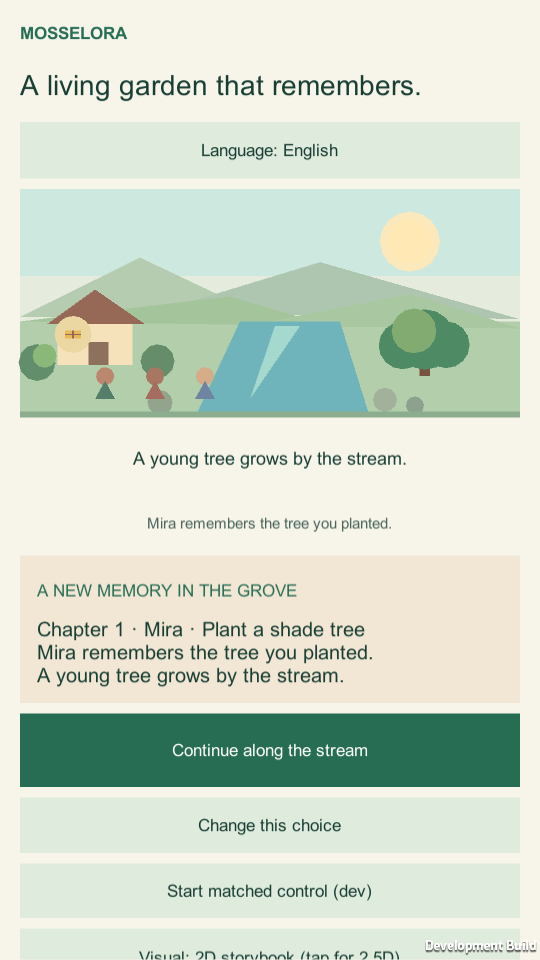
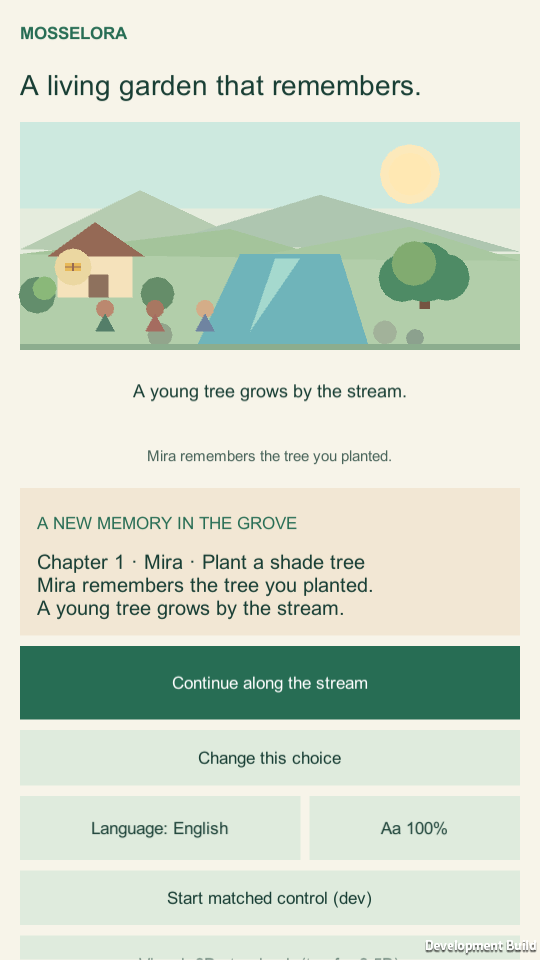
feat(evergrove): consequence-first memory screen and landmark tap message (EG-003)
Post-choice screen now leads with illustration, one consequence line,
the memory card, then Continue/Change, with a language and text-size row
placed after the primary actions. Puzzle screen order is unchanged.

Protected landmark tiles stay tappable and show the existing landmark
message in the status line without consuming a move, undo entry, or save.

QA tour gains step 13-anchored-tap, which asserts board and undo state
are unchanged. Screenshots regenerated at 540x960 and 375x667 @150%.

diff --git a/games/evergrove/Assets/Scripts/Unity/EvergroveApp.cs b/games/evergrove/Assets/Scripts/Unity/EvergroveApp.cs
@@ -459,18 +459,23 @@ namespace Evergrove.UnityClient
             // Keep the first playable board in the first visible viewport,
             // rather than putting language/settings and a giant hero above it.
             bool firstPuzzle = world.Round == 0 && !world.Solved && !showingMemory;
+            // The post-choice screen leads with the changed world and the new
+            // memory; its settings move below the primary actions.
+            bool memoryScreen = living && showingMemory && world.Choices.Length > 0;
+            // An open language picker keeps its own toggle at the top so it can close.
+            bool settingsAtTop = languagePicker || (!firstPuzzle && !memoryScreen);
+            bool multiLanguage = LocaleRuntime.SelectableLanguages.Count > 1;
             Text wordmark = Label(content, "Mosselora wordmark", GameLocalization.Text("title"),
                 15, 26, Leaf);
             wordmark.fontStyle = FontStyle.Bold;
             Label(content, "Title", GameLocalization.Text("subtitle"),
                 firstPuzzle ? 16 : 24, firstPuzzle ? 28 : 44, Ink);
-            if (LocaleRuntime.SelectableLanguages.Count > 1 &&
-                (!firstPuzzle || languagePicker))
+            if (multiLanguage && settingsAtTop)
                 Button(content, "Language settings",
                     GameLocalization.Text("language") + ": " +
                     GameLocalization.NativeName(GameLocalization.Current),
                     () => { languagePicker = !languagePicker; Rebuild(true); }, 48);
-            if (!firstPuzzle || languagePicker)
+            if (settingsAtTop)
                 TextSizeButton(content);
             if (languagePicker)
             {
@@ -560,7 +565,7 @@ namespace Evergrove.UnityClient
                 Label(content, "Puzzle condition", GameLocalization.Text("puzzle_desc"),
                     14, 44, Moss, TextAnchor.MiddleCenter);
 
-            if (showingMemory && world.Choices.Length > 0 && living)
+            if (memoryScreen)
             {
                 var moment = Card(content, "A remembered moment", Sand);
                 Label(moment.transform, "Moment title", GameLocalization.Text("memory_title"), 15, 31, Leaf);
@@ -577,6 +582,7 @@ namespace Evergrove.UnityClient
                     showingMemory = false;
                     Rebuild(false);
                 }, 47);
+                SettingsRow(multiLanguage);
             }
             else if (world.Completed)
             {
@@ -847,7 +853,8 @@ namespace Evergrove.UnityClient
                     index, puzzle.Size);
                 var tile = tileNode.AddComponent<Button>();
                 tile.targetGraphic = image;
-                tile.interactable = !world.Solved && !puzzle.IsAnchored(index);
+                // Protected tiles stay tappable: a tap explains them without a move.
+                tile.interactable = !world.Solved;
                 var colors = tile.colors;
                 colors.highlightedColor = Hex("#BFE0DC");
                 colors.pressedColor = Hex("#A3D2CC");
@@ -986,6 +993,19 @@ namespace Evergrove.UnityClient
             }
             Label(content, "How to play", GameLocalization.Text("how"),
                 13, 56, Moss, TextAnchor.MiddleCenter);
+        }
+
+        // Compact settings below the primary actions of the post-choice screen.
+        // Same controls and behavior as the top-of-screen settings elsewhere.
+        private void SettingsRow(bool offerLanguage)
+        {
+            GameObject row = Row(content, "Settings row");
+            if (offerLanguage)
+                Button(row.transform, "Language settings",
+                    GameLocalization.Text("language") + ": " +
+                    GameLocalization.NativeName(GameLocalization.Current),
+                    () => { languagePicker = true; Rebuild(true); }, 48);
+            TextSizeButton(row.transform);
         }
 
         // Language-neutral label: "Aa" plus the current size. Cycles 100/125/150%.
@@ -1174,7 +1194,7 @@ namespace Evergrove.UnityClient
                 tileBackgrounds[i].color = MosseloraTheme.TileFill(world.Solved,
                     insight.Flowing[i], puzzle.IsAnchored(i), world.HintStep,
                     world.HintTile, i, puzzle.Size);
-                visibleTiles[i].interactable = !world.Solved && !puzzle.IsAnchored(i);
+                visibleTiles[i].interactable = !world.Solved;
                 tileArtwork[i].Configure(puzzle.Kinds[i], angles[i],
                     insight.Flowing[i], world.Solved);
                 if (visibleLeaks != null && visibleLeaks[i] != null)
@@ -1231,6 +1251,14 @@ namespace Evergrove.UnityClient
 
         private void TapTile(int index)
         {
+            if (!world.Solved && world.CurrentPuzzle.IsAnchored(index))
+            {
+                // Explains the landmark in the status line only: no move, no undo
+                // entry, no save. The next real action redraws the progress text.
+                string landmark = LocalizedVillage.EnvironmentalRule(world);
+                if (feedbackText != null && landmark.Length > 0) feedbackText.text = landmark;
+                return;
+            }
             bool before = world.Solved;
             if (!world.Rotate(index)) return;
             if (localPlaytest != null) localPlaytest.Rotate(Time.unscaledTime);

diff --git a/games/evergrove/Assets/Scripts/Unity/DevQaTour.cs b/games/evergrove/Assets/Scripts/Unity/DevQaTour.cs
@@ -2,6 +2,7 @@
 using System;
 using System.Collections;
 using System.IO;
+using System.Linq;
 using Evergrove.Core;
 using UnityEngine;
 using UnityEngine.UI;
@@ -176,6 +177,24 @@ namespace Evergrove.UnityClient
             yield return new WaitForEndOfFrame();
             SavePng("12-matched-chapter2.png");
 
+            // Step 13: tap a protected landmark on that board. It must explain
+            // itself in the status line without spending a move or undo entry.
+            Puzzle board = app.QaWorld.CurrentPuzzle;
+            if (board.AnchoredTile >= 0)
+            {
+                int[] rotationsBefore = app.QaWorld.Rotations;
+                bool undoBefore = app.QaWorld.CanUndo;
+                Tap(board.AnchoredTile, board.Size);
+                for (int f = 0; f < 4; f++) yield return null;
+                if (!Enumerable.SequenceEqual(rotationsBefore, app.QaWorld.Rotations) ||
+                    undoBefore != app.QaWorld.CanUndo)
+                    throw new InvalidOperationException("Protected tap changed the board or undo state");
+                ScrollTo("Water feedback");
+                for (int f = 0; f < 4; f++) yield return null;
+                yield return new WaitForEndOfFrame();
+                SavePng("13-anchored-tap.png");
+            }
+
             Debug.Log("MOSSELORA_QA_TOUR_DONE " + saved);
             Application.Quit();
         }
@@ -207,7 +226,10 @@ namespace Evergrove.UnityClient
         private static void Tap(int index, int size)
         {
             string prefix = "Row " + (index / size + 1) + " column " + (index % size + 1) + " ";
-            FindButton(n => n.StartsWith(prefix, StringComparison.Ordinal), prefix).onClick.Invoke();
+            Button tile = FindButton(n => n.StartsWith(prefix, StringComparison.Ordinal), prefix);
+            // Same gate a real pointer press uses: disabled tiles never fire.
+            if (!tile.interactable) throw new InvalidOperationException("Tile not tappable: " + prefix);
+            tile.onClick.Invoke();
         }
 
         private void SolveTile(Puzzle puzzle, int index)

diff --git a/games/evergrove/docs/specs/02-FEATURE-BACKLOG.md b/games/evergrove/docs/specs/02-FEATURE-BACKLOG.md
@@ -76,7 +76,7 @@
 
 ### EG-003 — Consequence-first visual reveal
 
-**State:** Scene changes exist; reveal sequence needs device/player verification. **Type:** Core quality. **Risk:** Visual clutter or longer forced cutscene. **Evidence:** R1,R4,H1. **R/I/C/E:** 5/5/3/2; **illustrative score:** 37.5.
+**State:** Implemented-Unverified: the post-choice screen now orders illustration, one consequence line, the memory card, then Continue/Change and a settings row; tapping a protected landmark explains it in the status line without spending a move. macOS QA tour screenshots (540x960; 375x667 at 150%) show the memory card above the fold; device and player verification still needed. **Type:** Core quality. **Risk:** Visual clutter or longer forced cutscene. **Evidence:** R1,R4,H1. **R/I/C/E:** 5/5/3/2; **illustrative score:** 37.5.
 
 **Execution:** `Proposed`; **M3**; owner role **Product Owner**; verification **`WLD-001`, `VAL-001`**; expected evidence `games/evergrove/docs/evidence/<SOURCE_SHA>/EG-003/verification.md` (**NOT COLLECTED**); **rollback/stop:** Consequence recall does not improve after two iterations.
 

diff --git a/games/evergrove/docs/PLAYER_EXPERIENCE.md b/games/evergrove/docs/PLAYER_EXPERIENCE.md
@@ -23,11 +23,10 @@
 ```text
 Portrait scrolling UI
   Brand + product headline
-  Language selector (Automatic / 30-language picker)
-  Text size control "Aa 100% / 125% / 150%" (language-neutral; cycles on tap)
+  Language selector (Automatic / 30-language picker) and text size "Aa 100% / 125% / 150%" (language-neutral; cycles on tap), above the board except on the post-choice screen
   [Living mode] 2D illustration OR opt-in 2.5D miniature
   World consequence and one remembered action
-  [If a choice was committed] memory interlude + Continue + Change choice
+  [If a choice was committed] world consequence, memory card, Continue + Change choice, then the language/text-size row (unverified with players)
   [If campaign completed] authored epilogue + confirm-before-reset
   [Else]
     Stream title / environmental landmark notice
